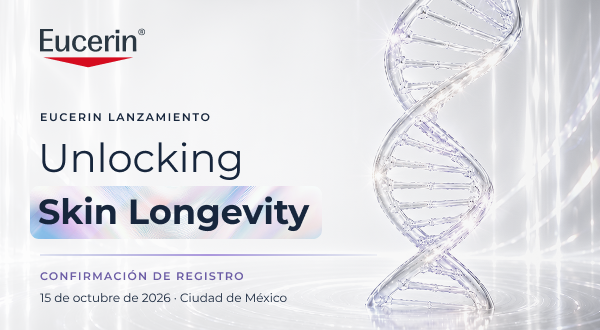
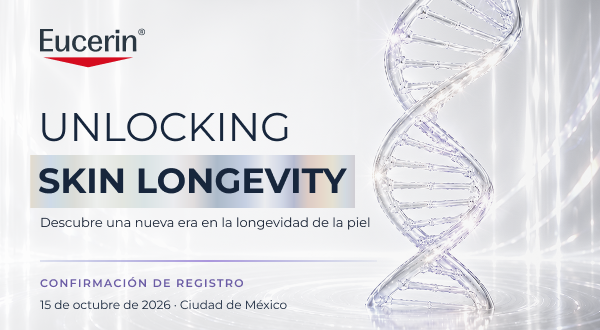
fix: Actualizar el título de la página a "Unlocking Skin Longevity" en index.html y actualizacion de header de mail

Changed region(s): [[0.03, 0.3333, 0.63, 0.7273], [0.06, 0.7576, 0.57, 0.9394]]

diff --git a/index.html b/index.html
@@ -1,13 +1,16 @@
 <!doctype html>
 <html lang="en">
-  <head>
-    <meta charset="UTF-8" />
-    <link rel="icon" type="image/svg+xml" href="/favicon.svg" />
-    <meta name="viewport" content="width=device-width, initial-scale=1.0" />
-    <title>landing-eucerin</title>
-  </head>
-  <body>
-    <div id="root"></div>
-    <script type="module" src="/src/main.tsx"></script>
-  </body>
+
+<head>
+  <meta charset="UTF-8" />
+  <link rel="icon" type="image/svg+xml" href="/favicon.svg" />
+  <meta name="viewport" content="width=device-width, initial-scale=1.0" />
+  <title>Unlocking Skin Longevity</title>
+</head>
+
+<body>
+  <div id="root"></div>
+  <script type="module" src="/src/main.tsx"></script>
+</body>
+
 </html>
